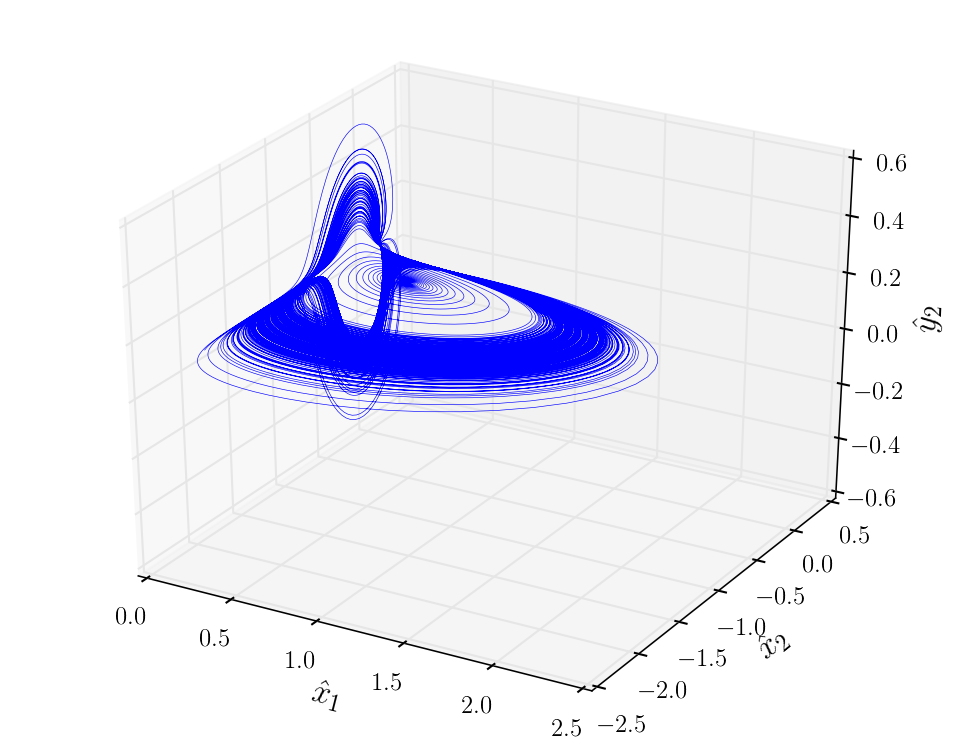
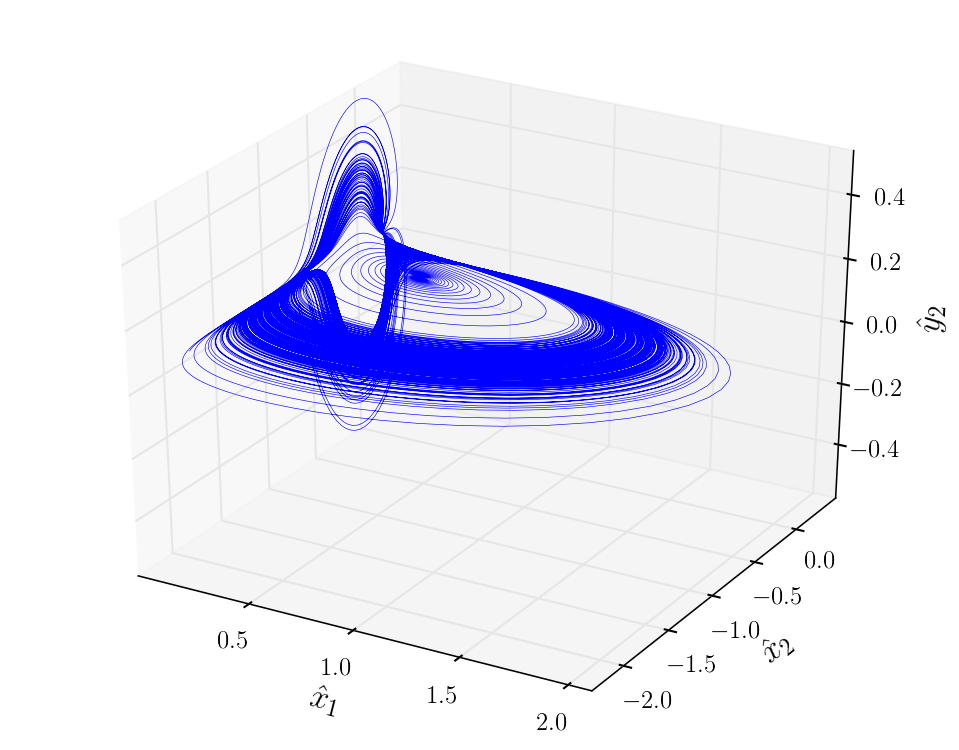
Corrected the missing term in the multishoot formula, found some relative periodic orbits

diff --git a/blog/2modesBB.tex b/blog/2modesBB.tex
@@ -2809,7 +2809,7 @@ is obtained by solving
     $\Lg \flow{\zeit_i}{\ssp_i}
         \to
     \Lg \LieEl (\gSpace_i)\flow{\zeit_i}{\ssp_i}$.
-    If I am right, the rest of Burak's draft is wrong.}
+    If I am right, the rest of Burak's draft is wrong. \BBedit{2014-02-03 I agree. THANK YOU.}}
     \PC{2014-02-02 to Burak: please write up the detailed
     derivation, with what $O(\Delta^2)$'s are dropped
     as a problem / solution set for \texttt{cycles.tex}.}
@@ -2860,9 +2860,12 @@ point along the orbit,
 \,,\qquad
    \groupTan_{i} \cdot \Delta x_i = 0
 \ee{RPOmultishootConstraints}
-Imposing these local conditions is natural; in the limit of
-infinitely many infinitesimal time steps, the \rpo\ that they yield
-is the so-called `comoving \rpo'. A globally imposed fixed
+Imposing these local conditions is natural \BBedit{(2014-02-03 I think choosing
+the global slice for every point is a better idea for our approach, since 
+our guesses are from that particular slice and if we force them to move 
+in their local slice, our initial guesses may be not as good as they were before.)}; 
+in the limit of infinitely many infinitesimal time steps, the \rpo\ that 
+they yield is the so-called `comoving \rpo'. A globally imposed fixed
 Poincar\'e section and \slice\ should be equally good, and once
 the \rpo is computed,
 its shift $\gSpace_p$ in the `lab frame' can be computed by imposing
@@ -2877,25 +2880,25 @@ where,
 \beq \label{eq:AforNewton}
 	{\bf A} = \\
 	\begin{pmatrix}
-	  \LieEl (\gSpace_1) \jMps^{\zeit_1}(\ssp_1) &
-	  \LieEl (\gSpace_1) \vel (\flow{\zeit_1}{\ssp_1}) &
-	  \Lg \flow{\zeit_1}{\ssp_1}  &
+	  \LieEl_{2} \jMps_{2} &
+	  \LieEl_{2} \vel_2 &
+	  \Lg \LieEl_{2} \flow{\zeit_1}{\ssp_1}  &
 	  - \matId & 0 & 0 & 0 & \cdots & 0 \\
-	  \vel (x_1) & 0 & 0 & 0 & 0 & 0 & 0 & \cdots & 0 \\
+	  \vel_1 & 0 & 0 & 0 & 0 & 0 & 0 & \cdots & 0 \\
 	  \sliceTan{} & 0 & 0 & 0 & 0 & 0 & 0 & \cdots & 0 \\
 	  0 & 0 & 0 &
-	  \LieEl (\gSpace_2) \jMps^{\zeit_2}(\ssp_2) &
-	  \LieEl (\gSpace_2) \vel (\flow{\zeit_2}{\ssp_2}) &
-	  \Lg \flow{\zeit_2}{\ssp_2}   &
+	  \LieEl_{3} \jMps_{3} &
+	  \LieEl_{3} \vel_3 &
+	  \Lg \LieEl_{3} \flow{\zeit_2}{\ssp_2}   &
 	  - \matId & \cdots & 0 \\
-	  0 & 0 & 0 & \vel (x_2) & 0 & 0 & 0 & \cdots & 0 \\
+	  0 & 0 & 0 & \vel_2 & 0 & 0 & 0 & \cdots & 0 \\
 	  0 & 0 & 0 & \sliceTan{} & 0 & 0 & 0 & \cdots & 0 \\
 	  \vdots & \vdots & \vdots & \vdots & \vdots & \vdots & \vdots & \ddots & \vdots \\
 	  - \matId & 0 & \cdots & 0 & 0 & 0 &
-	  \LieEl (\gSpace_n) \jMps^{\zeit_n}(\ssp_n) &
-	  \LieEl (\gSpace_n) \vel (\flow{\zeit_n}{\ssp_n}) &
-	   \Lg \flow{\zeit_1}{\ssp_1}   \\
-	  0 & 0 & \cdots & 0 & 0 & 0 & \vel (x_n) & 0 & 0 \\
+	  \LieEl_{1} \jMps_{1} &
+	  \LieEl_{1} \vel_1 &
+	   \Lg \LieEl_{1} \flow{\zeit_1}{\ssp_1}   \\
+	  0 & 0 & \cdots & 0 & 0 & 0 & \vel_n & 0 & 0 \\
 	  0 & 0 & \cdots & 0 & 0 & 0 & \sliceTan{} & 0 & 0
 	 \end{pmatrix}	
 \eeq
@@ -2916,14 +2919,14 @@ where,
 	 \ \mbox{and} \
 	 E =
 	 \begin{pmatrix}
-	  \ssp_{2} - \LieEl (\gSpace_1) \flow{\zeit_1}{\ssp_1} \\
+	  \ssp_{2} - \LieEl_2 \flow{\zeit_1}{\ssp_1} \\
 	   0 	\\
 	   0 	\\
-	  \ssp_{3} - \LieEl (\gSpace_2) \flow{\zeit_2}{\ssp_2} \\
+	  \ssp_{3} - \LieEl_3 \flow{\zeit_2}{\ssp_2} \\
 	  0 	\\
 	  0 \\
 	  \vdots \\
-	  \ssp_{1} - \LieEl (\gSpace_n) \flow{\zeit_n}{\ssp_n} \\
+	  \ssp_{1} - \LieEl_1 \flow{\zeit_n}{\ssp_n} \\
 	  0 	\\
 	  0 	\\
 	 \end{pmatrix}
@@ -3043,9 +3046,25 @@ of ChaosBook. So in applying this to \KS\ you should try different
 Sobolev norms. Would be grand if there were a norm-free iteration
 method...
 
+\item[2014-02-03 Burak] After adding the missing term, mutlishoot \rpo\ 
+searches started to become successful. Here are 
+four \rpo s in the \slice\ hyperplane: \refFig{fig:2modeRPOs}.
 
-
-
+\begin{figure}%[H]
+\centering
+ (a) \includegraphics[width=0.3\textwidth]{BBPK01}
+ (b) \includegraphics[width=0.3\textwidth]{BBPK01101}
+ \\
+ (c) \includegraphics[width=0.3\textwidth]{BBPK011101}
+ (d) \includegraphics[width=0.3\textwidth]{BBPK011111}
+\caption{
+(a) \Rpo\ \cycle{01} plotted in the \slice\ hyperplane.
+(b) \Rpo\ \cycle{01101} plotted in the \slice\ hyperplane.
+(c) \Rpo\ \cycle{011101} plotted in the \slice\ hyperplane.
+(d) \Rpo\ \cycle{011111} plotted in the \slice\ hyperplane.
+}
+\label{fig:2modeRPOs}
+\end{figure}
 
 
 

diff --git a/blog/burak/PorterKnobloch/python/multishootssp.py b/blog/burak/PorterKnobloch/python/multishootssp.py
@@ -98,7 +98,7 @@ def Jacobian(x, Ti):
 
 	return J		
 
-tol = 1e-7
+tol = 1e-9
 earray = np.array([], float)
 xrpo = np.zeros(np.shape(xrpo0))
 tofrpo = np.zeros(np.shape(tof0))
@@ -106,7 +106,7 @@ phirpo = np.zeros(np.shape(phirpo0))
 
 Adaptive = True
 iAdaptiveMax = 10			
-factor = 10
+factor = 2
 			
 for i in range(1, int(np.max(group)+1)):
 
@@ -158,7 +158,7 @@ for i in range(1, int(np.max(group)+1)):
 	errorr = np.zeros(np.shape(error))
 	
 	#Define maximum number of iterations:
-	itermax = 300
+	itermax = 200
 	#Apply ChaosBook p294 (13.11) 
 	#with constraint nhat . Dx = 0
 	iteration=0
@@ -189,13 +189,14 @@ for i in range(1, int(np.max(group)+1)):
 			minusgvx = -np.dot(twomode.LieElement(phii[j]), vx)
 			minusgvx = minusgvx.reshape(-1,1)
 			
-			#minusTfTx term:
-			minusTfTx = -np.dot(T, xTj)
-			minusTfTx = minusTfTx.reshape(-1,1)
+			#minusTgfTx term:
+			minusTgfTx = np.dot(twomode.LieElement(phii[j]), xTj)
+			minusTgfTx = -np.dot(T, minusTgfTx)
+			minusTgfTx = minusTgfTx.reshape(-1,1)
 			
 			
 			Aj = np.concatenate((-np.dot(twomode.LieElement(phii[j]), J), minusgvx), axis=1)
-			Aj = np.concatenate((Aj, minusTfTx), axis=1)
+			Aj = np.concatenate((Aj, minusTgfTx), axis=1)
 			
 			#nhat0 = np.append(nhat.reshape(-1,1), np.array([[0], [0]], float))
 			
@@ -275,7 +276,7 @@ for i in range(1, int(np.max(group)+1)):
 				
 				else:					
 					
-					alpha = float(alpha) / factor
+					alpha = float(alpha) / float(factor)
 					
 				#raw_input("Press Enter to continue...")	
 
@@ -326,10 +327,10 @@ for i in range(1, int(np.max(group)+1)):
 	plot(np.arange(iteration), earray)
 	xlabel('Iteration')
 	ylabel('Error')
-	savefig('image/errorrposearch.png', bbox_inches='tight', dpi=150)
-	show()
+	savefig('image/errorrposearch'+str(i)+'.png', bbox_inches='tight', dpi=150)
+	#show()
 	
-	raw_input("Press Enter to continue...")
+	#raw_input("Press Enter to continue...")
 
 np.savetxt('data/tofrpo.dat',tofrpo)
 np.savetxt('data/xrpo.dat', xrpo)

diff --git a/blog/burak/PorterKnobloch/python/psectandretmap.py b/blog/burak/PorterKnobloch/python/psectandretmap.py
@@ -42,7 +42,7 @@ computesymbdyn = True
 plotpsandretmap = True
 solveFPO = False
 
-m = 2
+m = 6
 
 pars = np.loadtxt('data/parameters.dat')
 
@@ -156,11 +156,11 @@ snplus1sorted = snplus1[snsortedindices]
 print 'Interpolating to the return map'
 imax = np.argmax(snplus1sorted)
 tck1 = interpolate.splrep(snsorted[0:imax+1], snplus1sorted[0:imax+1])
-xint1 = np.linspace(snsorted[0], snsorted[imax], 1000)
+xint1 = np.linspace(snsorted[0], snsorted[imax], 50000)
 yint1 = interpolate.splev(xint1, tck1)
 
 tck2 = interpolate.splrep(snsorted[imax:len(snsorted)], snplus1sorted[imax:len(snsorted)])
-xint2 = np.linspace(snsorted[imax], snsorted[len(snsorted)-1], 1000)
+xint2 = np.linspace(snsorted[imax], snsorted[len(snsorted)-1], 50000)
 yint2 = interpolate.splev(xint2, tck2)
 
 snint = np.append(xint1, xint2)
@@ -198,7 +198,7 @@ for i in range(m):
 	#print "retmap %i" %(i+1)
 	
 	fpoevo=0
-	for s0 in np.arange(smin, smax, (smax-smin)/1000):
+	for s0 in np.arange(smin, smax, (smax-smin)/50000):
 		fpoev = fpo(s0)
 		
 		if fpoev * fpoevo < 0: #If there is a zero-crossing, look for the root:	
@@ -208,7 +208,7 @@ for i in range(m):
 			newcandidate = 1
 			for j in range(np.size(scandidates,0)):
 				#Discard if found candidate is previously found:
-				if np.abs(scandidates[j,1] - sc)<1e-12: 
+				if np.abs(scandidates[j,1] - sc)<1e-9: 
 					newcandidate=0
 				
 			if newcandidate:

diff --git a/blog/burak/PorterKnobloch/python/periodicorbits.py b/blog/burak/PorterKnobloch/python/periodicorbits.py
@@ -71,12 +71,12 @@ for i in range(1,int(np.max(group))+1):
 	ax.set_xlabel('$x$', fontsize=18)
 	ax.set_ylabel('$y$', fontsize=18)
 	ax.set_zlabel('$z$', fontsize=18)
-	#ax.view_init(30,-110)
+	ax.view_init(25,35)
 	ax.grid(b='off')
 	
 	
 	fname = 'image/' + itinerary[0] + '.png'
 	savefig(fname, bbox_inches='tight', dpi=100)	
 
-	plt.show()	
-	raw_input("Press Enter to continue...")
+	#plt.show()	
+	#raw_input("Press Enter to continue...")
